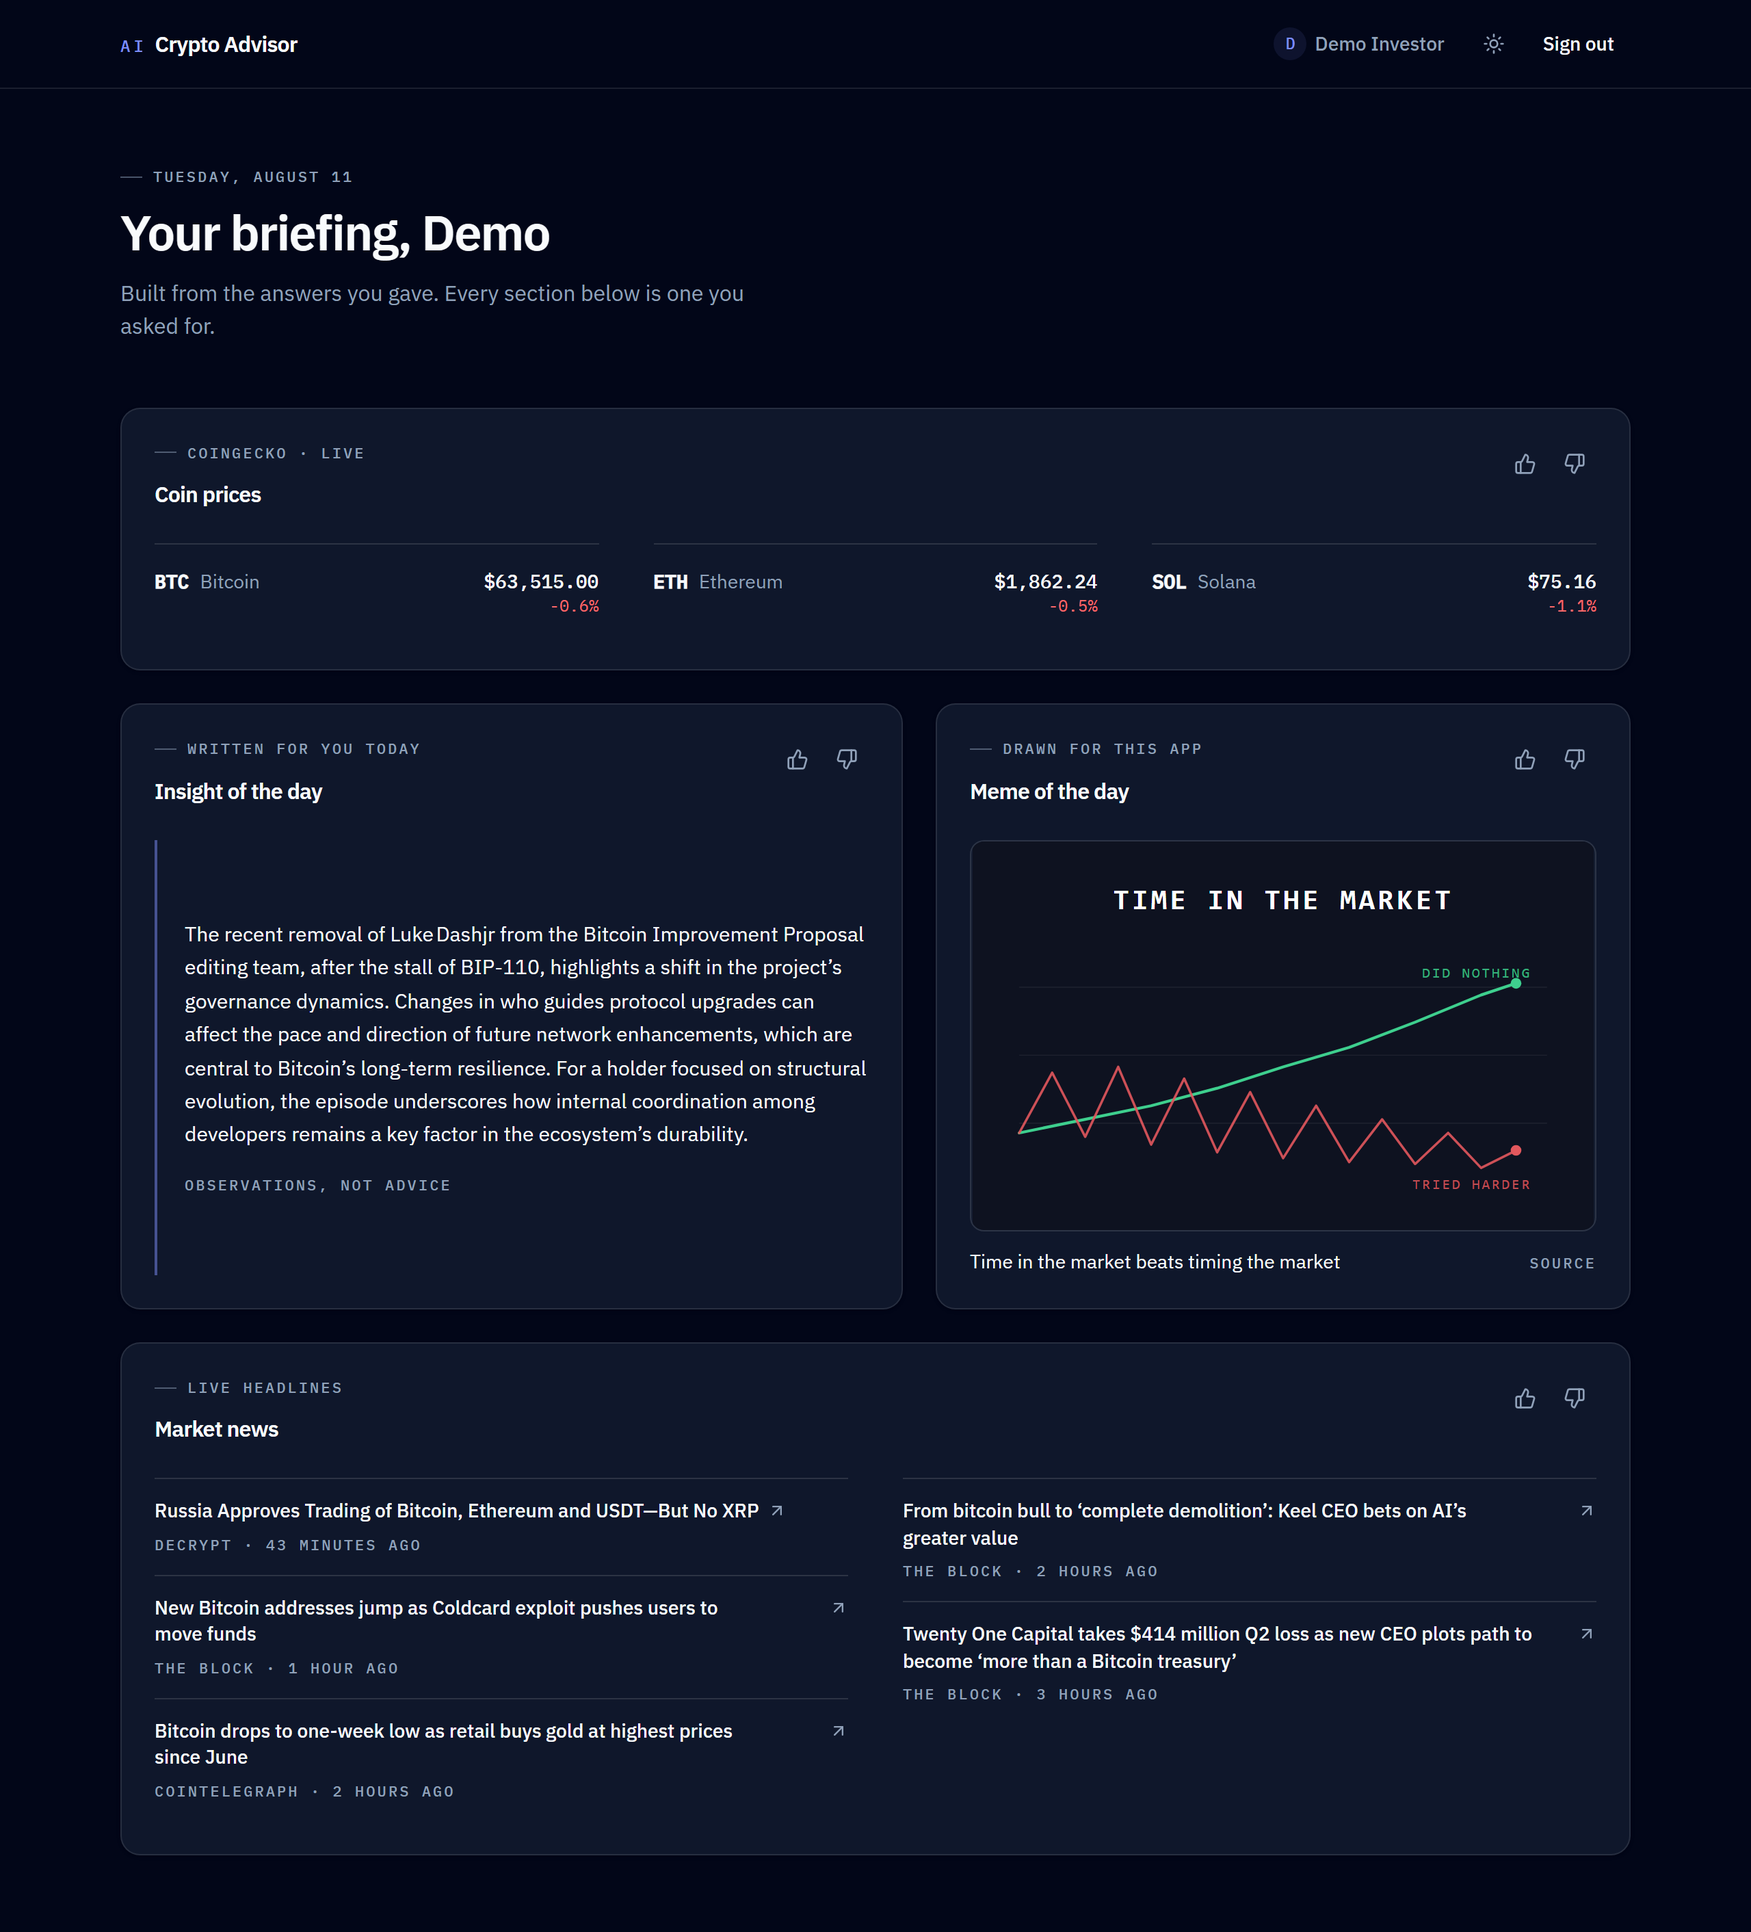
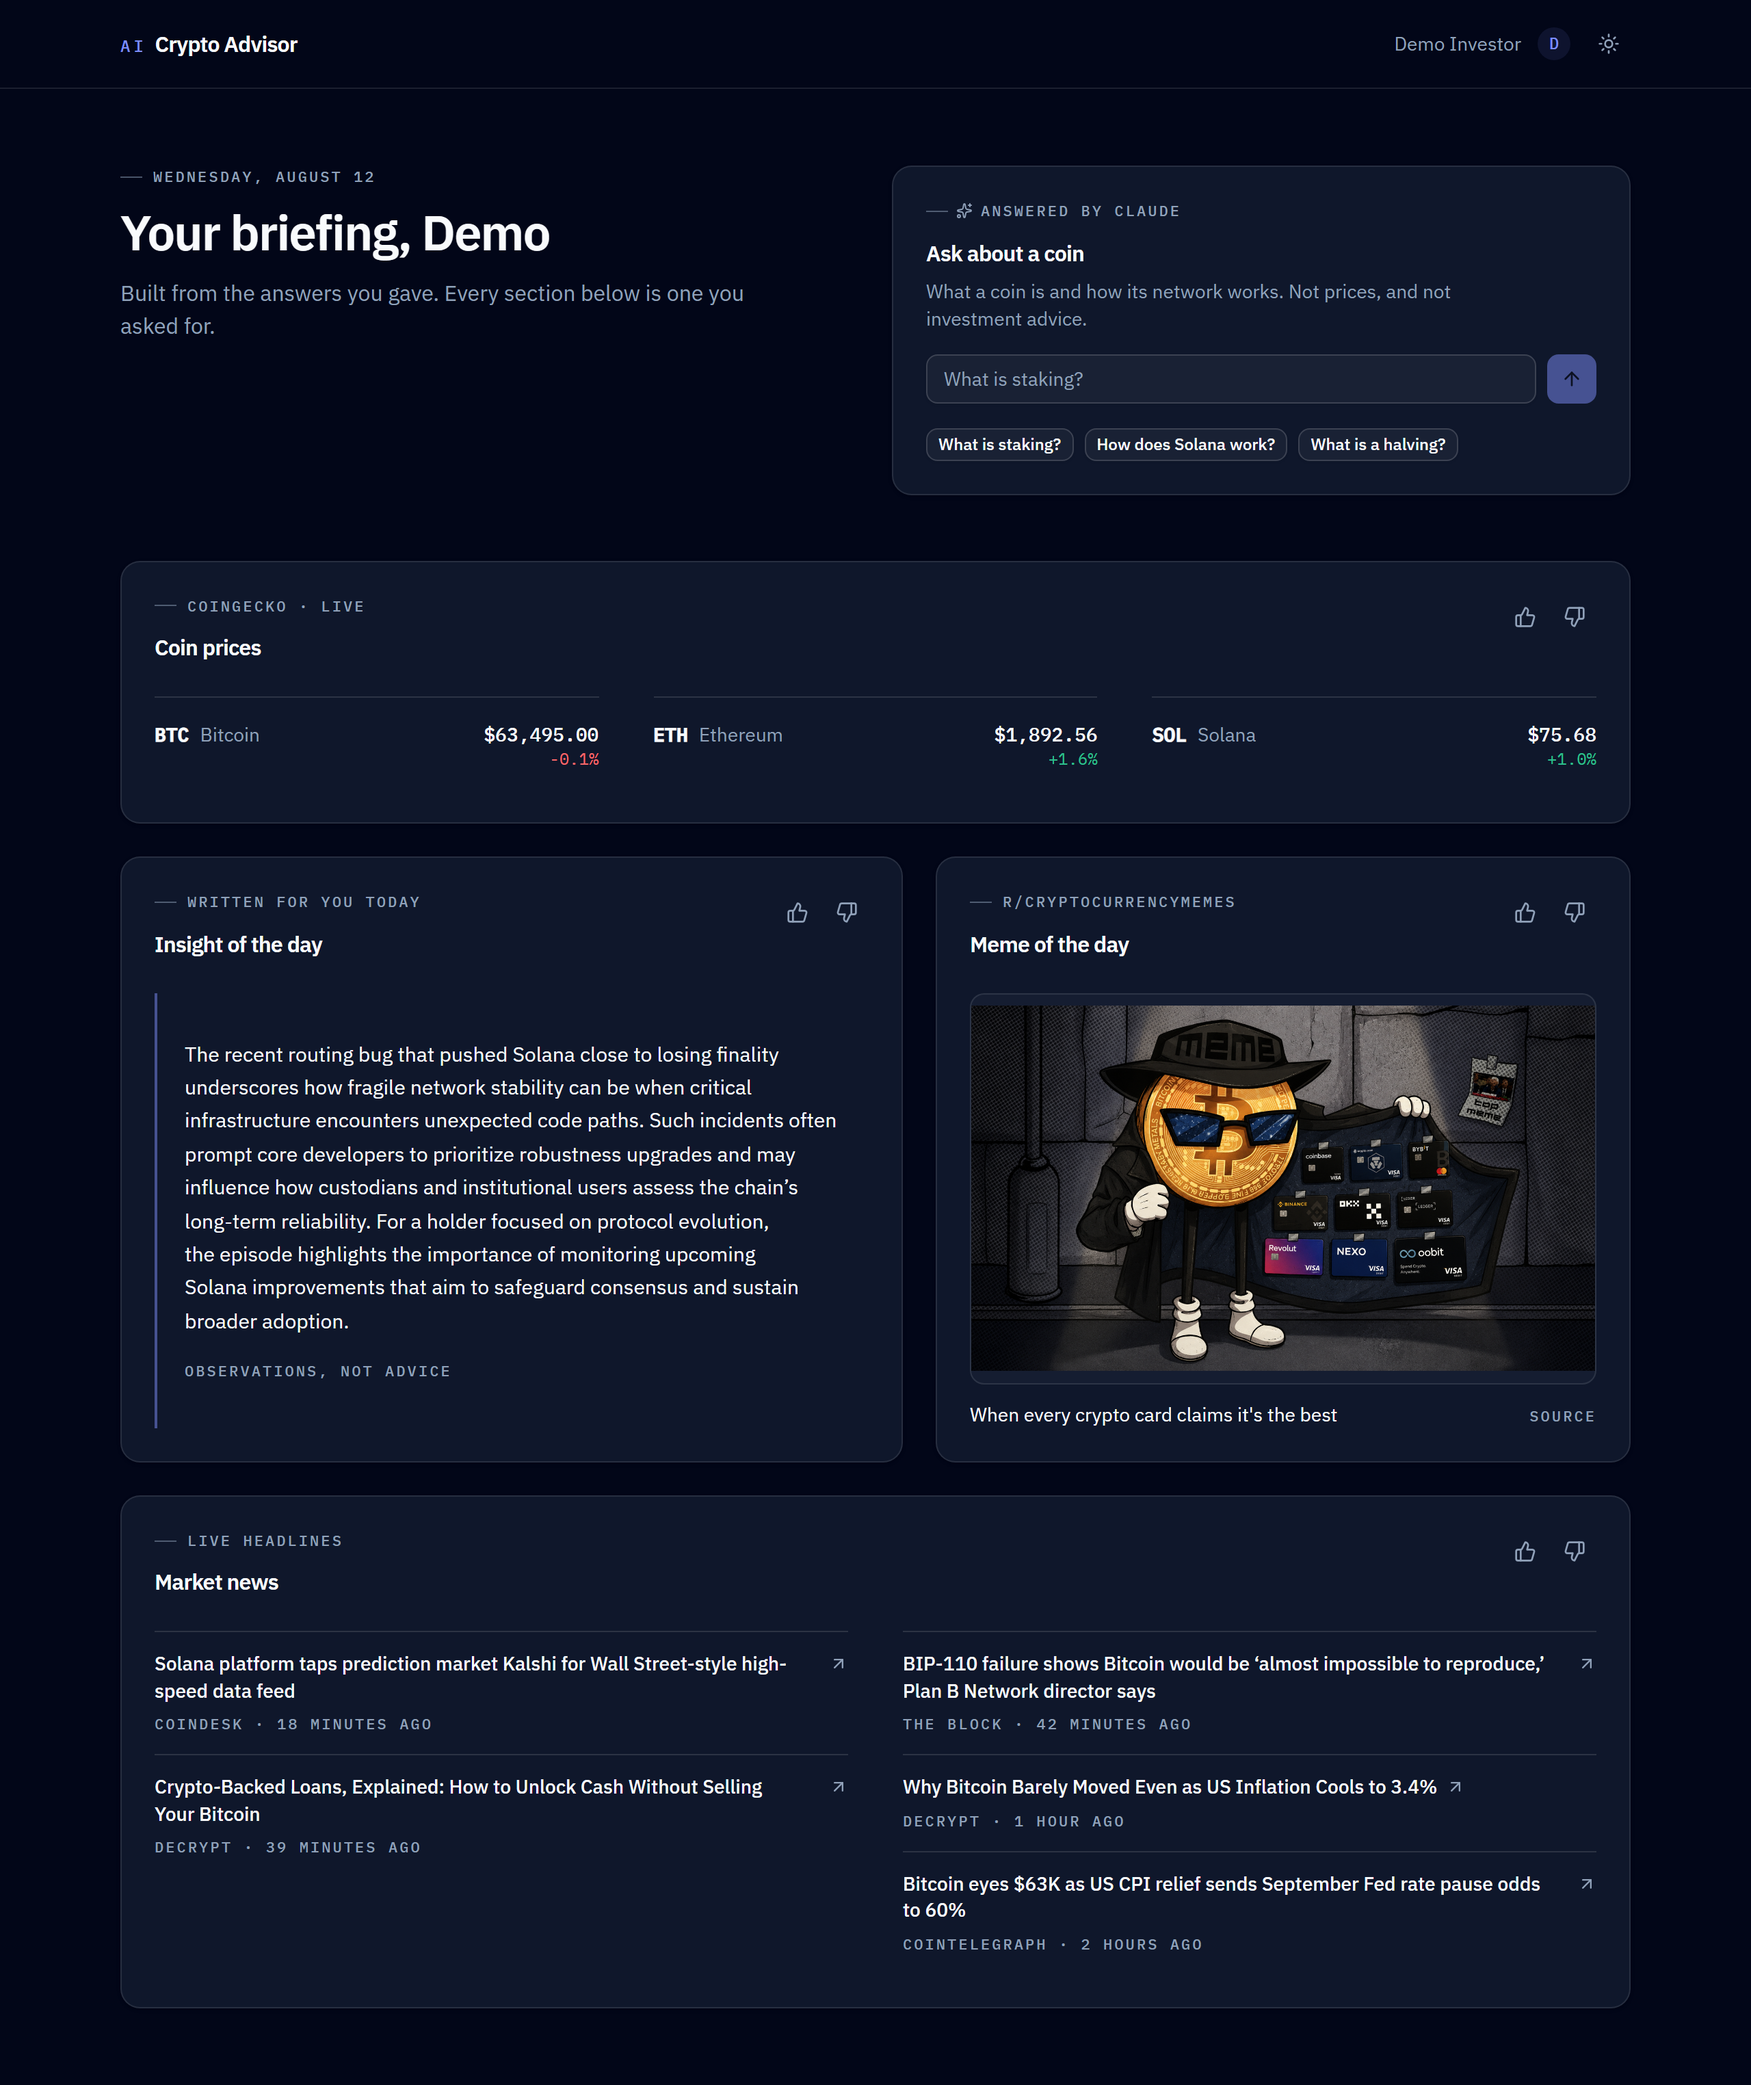
docs(readme): retake the screenshots with the assistant in them
Both were captured before the assistant existed, so the page they showed
no longer matched the one described beside them. Same recipe as the
originals — the demo account on the live site, 1280 wide at twice the
pixel density, full page, once per theme — with the alt text extended to
name the box.

diff --git a/README.md b/README.md
@@ -10,7 +10,7 @@ stops when nobody is using it.
 <picture>
   <source media="(prefers-color-scheme: dark)" srcset="docs/dashboard-dark.png">
   <img
-    alt="The dashboard on the demo account: live coin prices, an insight written for a long-term holder, the day's meme, and market news with Bitcoin headlines at the top"
+    alt="The dashboard on the demo account: the ask-about-a-coin box beside the heading, live coin prices, an insight written for a long-term holder, the day's meme, and market news with Bitcoin headlines at the top"
     src="docs/dashboard-light.png"
   >
 </picture>
